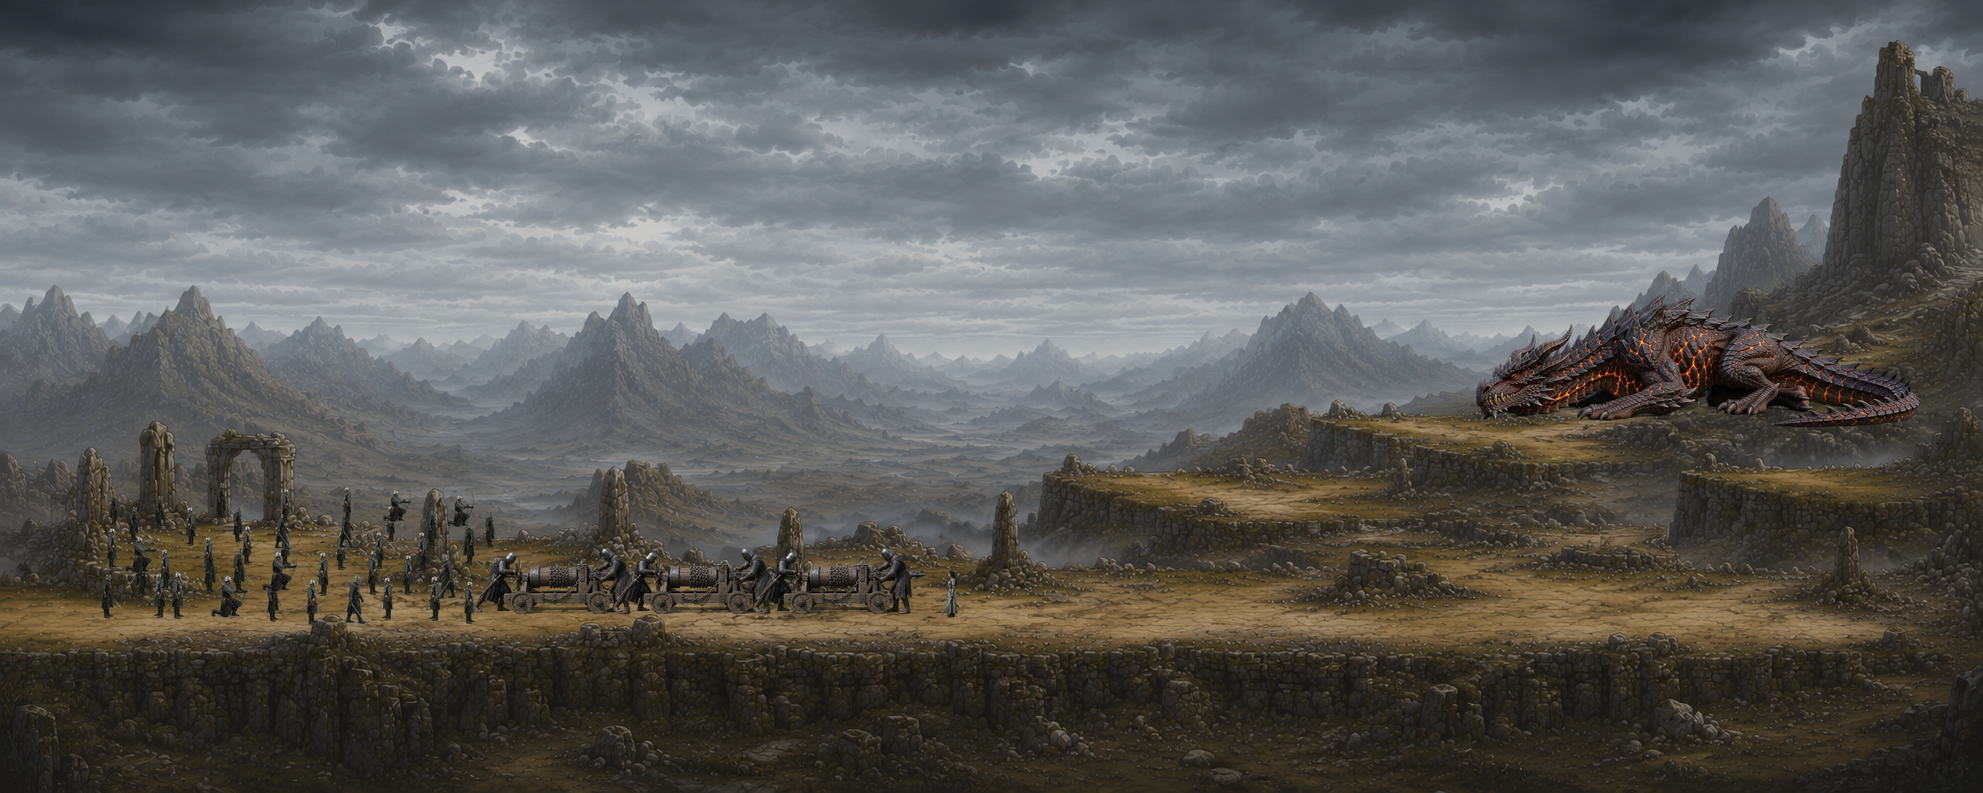
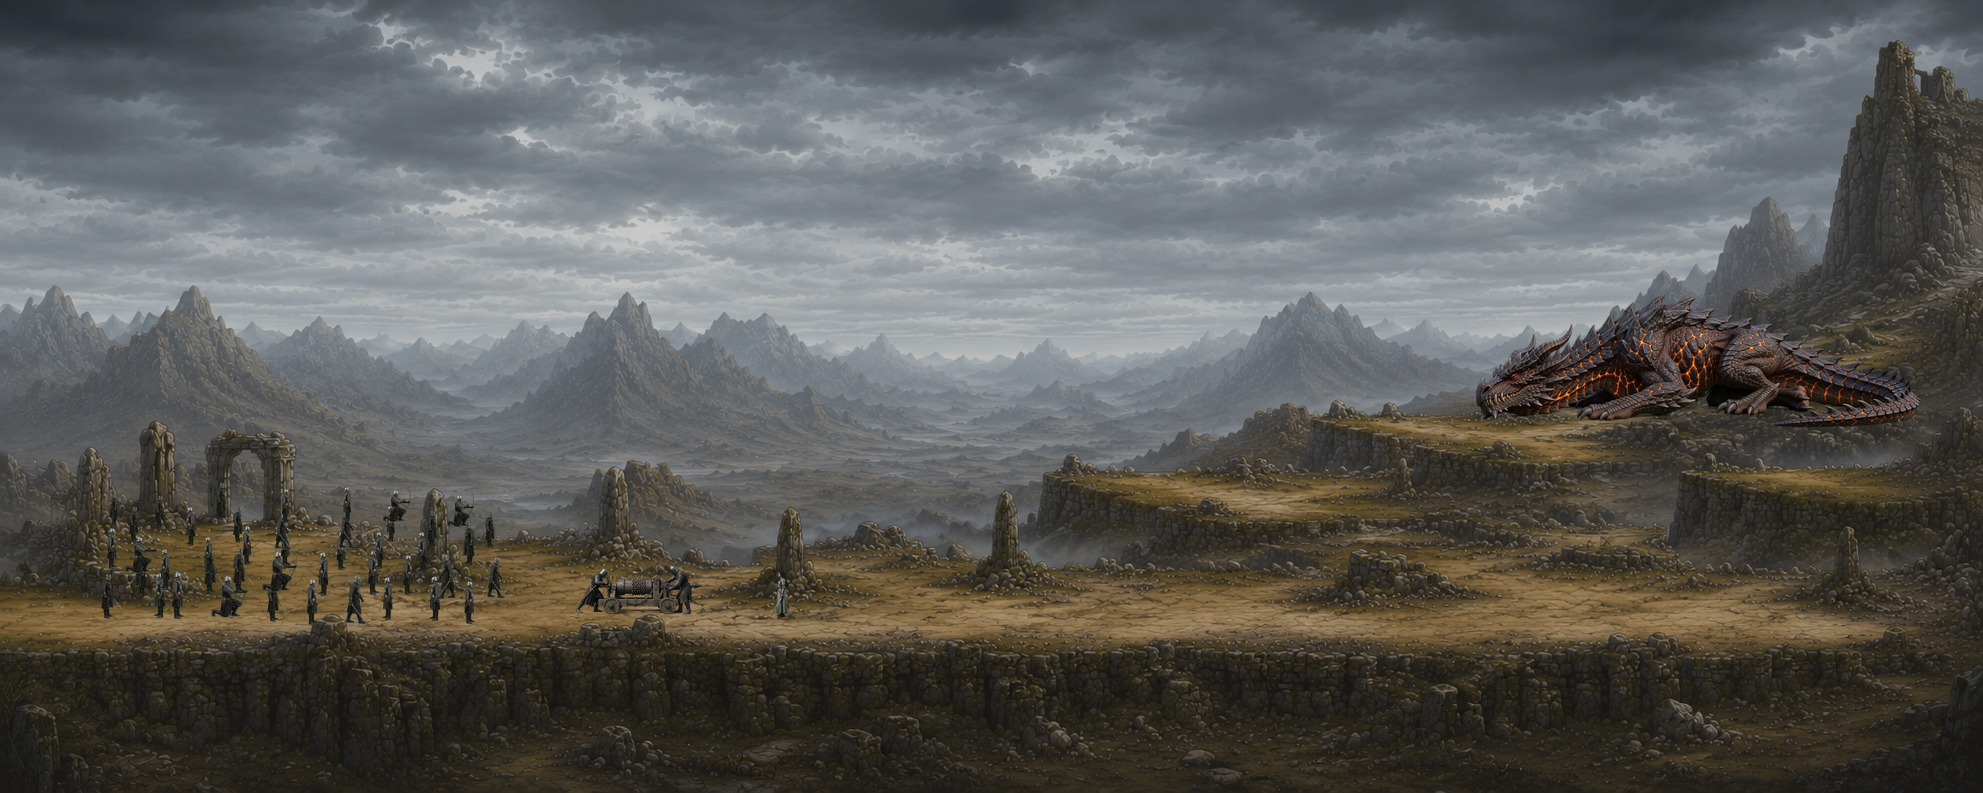
primeira versão do teste jogável - Fase 1

Changed region(s): [[0.2461, 0.6961, 0.4922, 0.7869]]

diff --git a/index.html b/index.html
@@ -68,7 +68,7 @@
 
 <div id="wrap">
   <canvas id="game" width="1983" height="793"></canvas>
-  <video id="povVideo" muted playsinline></video>
+  <video id="povVideo" playsinline></video>
   <div id="hud"></div>
 </div>
 
@@ -113,7 +113,6 @@ bg.src = 'cena.png';
 const povVideo = document.getElementById('povVideo');
 const fireVideo = document.createElement('video');
 fireVideo.src = 'disparo.mp4';
-fireVideo.muted = true;
 fireVideo.playsInline = true;
 
 // offscreen canvas p/ chroma key em tempo real do video de disparo
@@ -122,8 +121,9 @@ keyCanvas.width = 320; keyCanvas.height = 180;
 const keyCtx = keyCanvas.getContext('2d', { willReadFrequently: true });
 
 // ---------- Posições calibradas na cena (cena.png é 1983x793) ----------
-const MACHINE_BOX   = { x:752, y:547, w:176, h:68 };   // maquina "ativa" (a mais a frente, perto do Bryne)
-const MUZZLE        = { x: 915, y: 560 };              // ponta do lancador, apos o flip
+// maquina unica, em escala reduzida para bater com a altura dos soldados da tropa
+const MACHINE_BOX   = { x:575, y:565, w:129, h:50 };
+const MUZZLE        = { x: 695, y: 578 };              // ponta do lancador, apos o flip
 const TARGET_ZONE    = { x: 1650, y: 345, r: 55 };      // ancora no pescoco/ombro do Volkarn
 const GROUND_Y       = 630;
 const DRAGON_HEAD_ZZZ = { x: 1530, y: 300 };
@@ -240,27 +240,9 @@ function drawTargetZone(){
   ctx.restore();
 }
 
-function drawChains(hitPoints){
-  ctx.save();
-  ctx.strokeStyle = '#5a5248';
-  ctx.lineWidth = 4;
-  for (const p of hitPoints){
-    ctx.beginPath();
-    ctx.moveTo(MUZZLE.x, MUZZLE.y);
-    // curva simples pra parecer corrente frouxa presa
-    const midX = (MUZZLE.x + p.x)/2, midY = Math.max(MUZZLE.y,p.y) + 40;
-    ctx.quadraticCurveTo(midX, midY, p.x, p.y);
-    ctx.stroke();
-  }
-  ctx.restore();
-}
-
-let chainedPoints = [];
-
 function renderStatic(){
   ctx.clearRect(0,0,W,H);
   ctx.drawImage(bg,0,0,W,H);
-  drawChains(chainedPoints);
   drawTargetZone();
   drawZzz();
   drawWind();
@@ -296,7 +278,7 @@ function chromaKeyFrameToCanvas(){
 function drawFiringOverlay(){
   if (fireVideo.readyState >= 2){
     chromaKeyFrameToCanvas();
-    ctx.drawImage(keyCanvas, MACHINE_BOX.x - 30, MACHINE_BOX.y - 40, MACHINE_BOX.w + 60, MACHINE_BOX.h + 60);
+    ctx.drawImage(keyCanvas, MACHINE_BOX.x - 22, MACHINE_BOX.y - 29, MACHINE_BOX.w + 44, MACHINE_BOX.h + 58);
   }
 }
 
@@ -311,8 +293,20 @@ function startAimState(){
   setMsg('Mire o ângulo, segure o botão pra carregar força, e solte pra disparar. Tentativas restantes: ' + attempts);
 }
 
+let audioUnlocked = false;
+function unlockAudioOnce(){
+  if (audioUnlocked) return;
+  audioUnlocked = true;
+  // "aquece" o povVideo dentro do gesto direto do usuario, pra o play()
+  // assincrono mais tarde (depois do video de disparo) nao ser bloqueado
+  // pela politica de autoplay-com-som do navegador.
+  povVideo.muted = false;
+  povVideo.play().then(() => { povVideo.pause(); povVideo.currentTime = 0; }).catch(() => {});
+}
+
 function beginCharge(){
   if (state !== 'aim') return;
+  unlockAudioOnce();
   state = 'charging';
   charging = true;
   chargeStart = performance.now();
@@ -365,7 +359,6 @@ function onPovDone(){
   state = 'result';
 
   if (lastShotWasHit){
-    chainedPoints.push({x:TARGET_ZONE.x, y:TARGET_ZONE.y});
     state = 'phase_complete';
     setMsg('ACERTOU! A corrente prendeu firme no Volkarn. FASE 1 COMPLETA.');
     return;